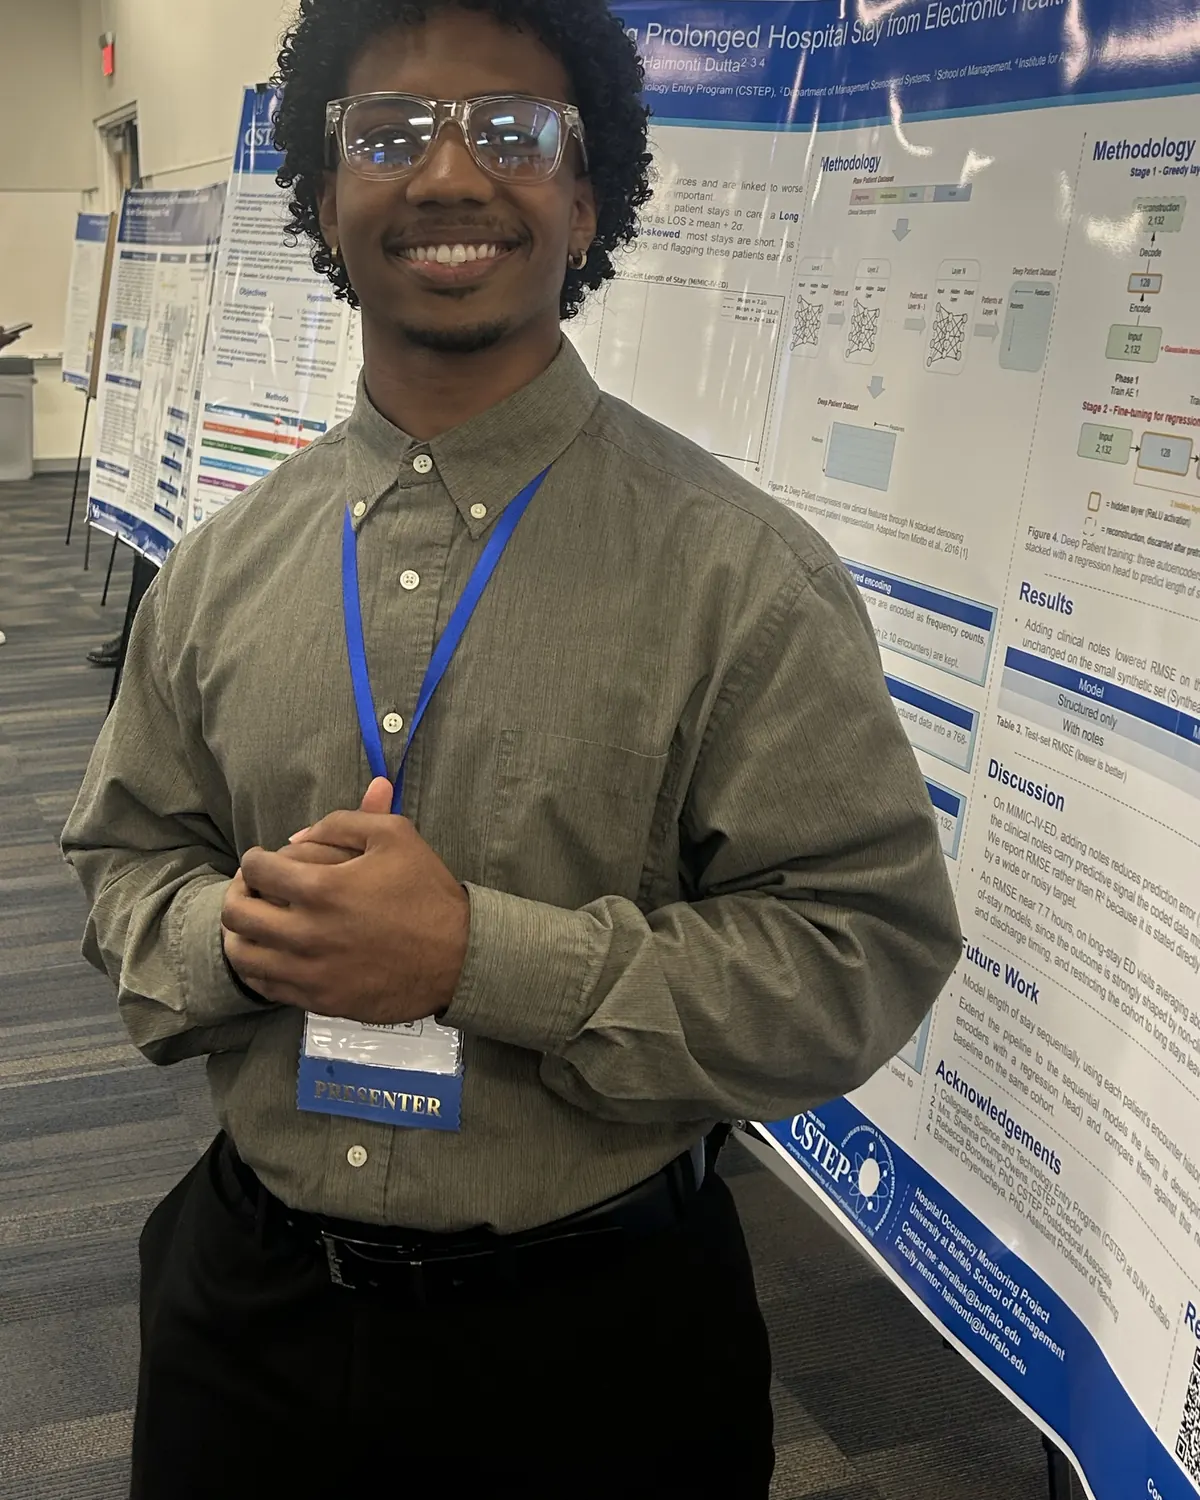
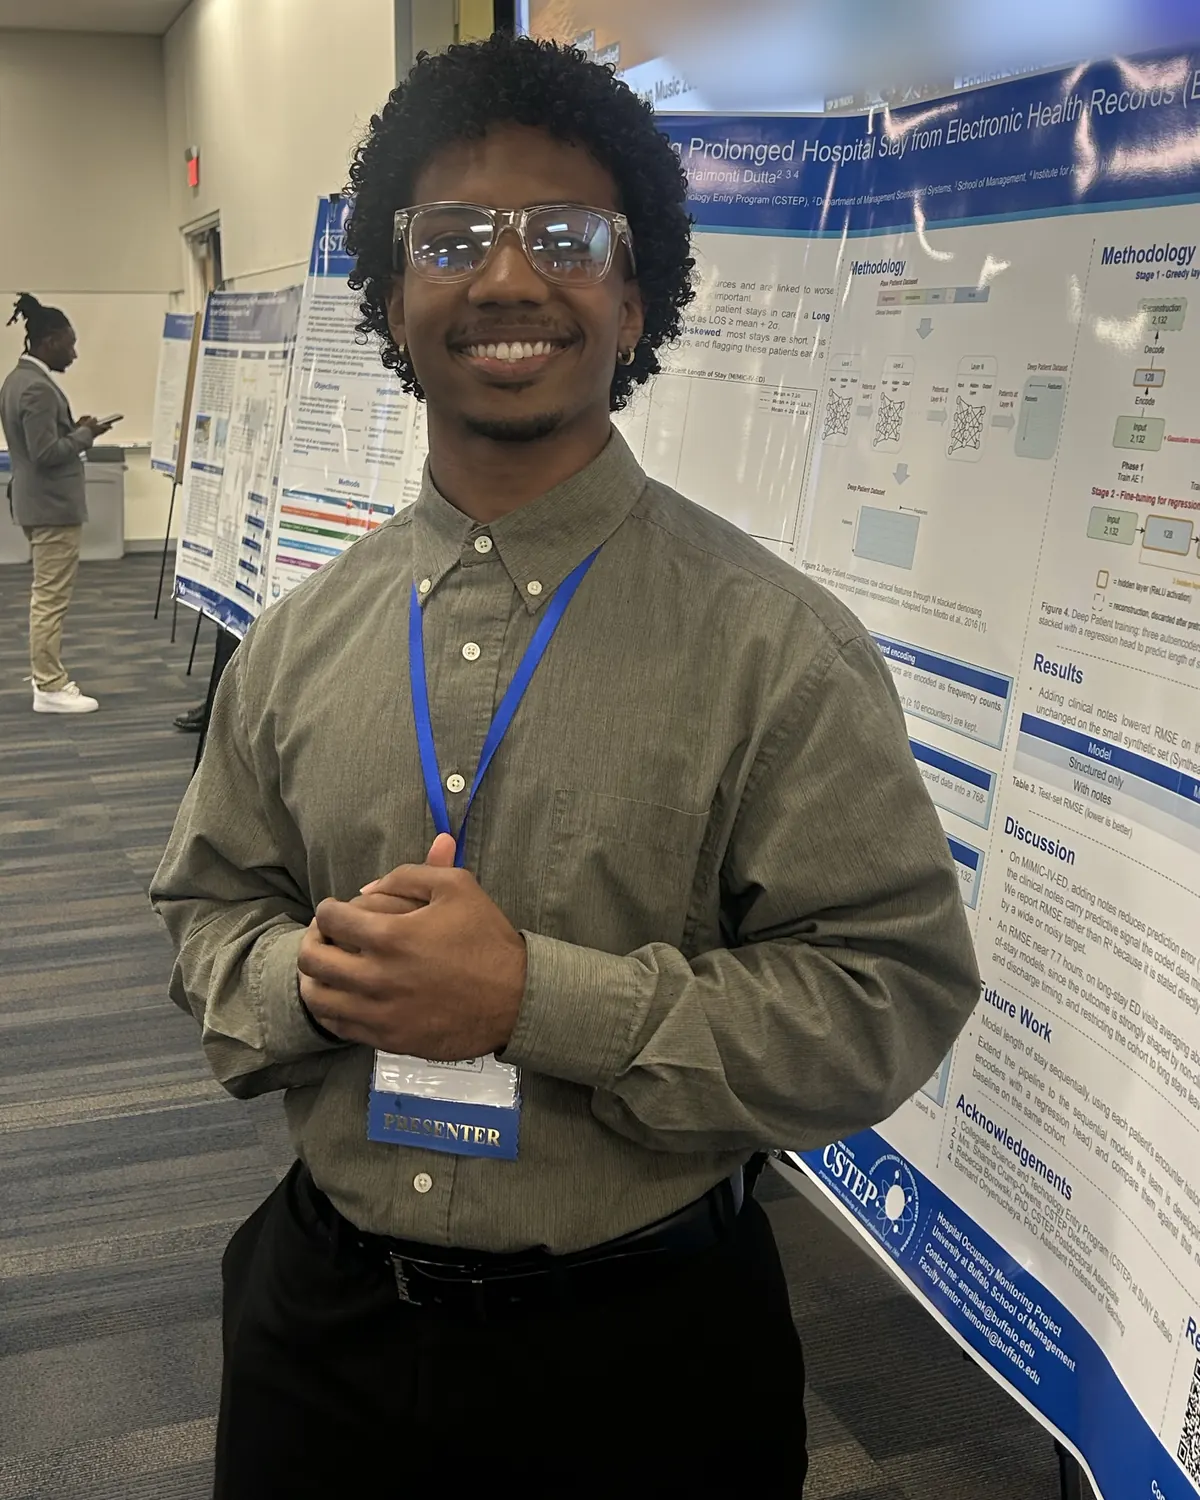
Re-crop poster photo to keep full hair, blur the projector strip
Claude-Session: https://claude.ai/code/session_01PS7nDS51rvwgcAWNzzRdaV

diff --git a/tools/optimize_images.py b/tools/optimize_images.py
@@ -9,7 +9,7 @@ copy it unless asked to.
 """
 from pathlib import Path
 
-from PIL import Image, ImageOps
+from PIL import Image, ImageDraw, ImageFilter, ImageOps
 
 Image.MAX_IMAGE_PIXELS = None  # the suit headshot is ~100 MP
 
@@ -68,8 +68,18 @@ crop_ratio(suit, 1, cy=0.3).resize((180, 180), Image.LANCZOS).save(
     ROOT / "apple-touch-icon.png", "PNG", optimize=True)
 print("apple-touch-icon.png  180x180")
 
-# Research: poster session, cropped so the projector screen is out of frame.
-poster = crop_frac(load(SRC / "poster.jpg"), 0, 0.23, 1, 1)
+# Research: poster session. Keep all the hair; the projector screen strip
+# to the right of the head is blurred so its thumbnails aren't readable.
+# Mask points are in the 1932x2576 frame and scale to any size of the photo.
+poster = load(SRC / "poster.jpg")
+pw, ph = poster.size
+mask = Image.new("L", poster.size, 0)
+pts = [(1030, 0), (1932, 0), (1932, 494), (1340, 578), (1236, 588),
+       (1203, 552), (1163, 513), (1118, 468), (1030, 458)]
+ImageDraw.Draw(mask).polygon([(x / 1932 * pw, y / 2576 * ph) for x, y in pts], fill=255)
+mask = mask.filter(ImageFilter.GaussianBlur(0.004 * pw))
+poster = Image.composite(poster.filter(ImageFilter.GaussianBlur(0.02 * pw)), poster, mask)
+poster = crop_frac(poster, 0, 0.165, 1, 1)
 save_widths(crop_ratio(poster, 4 / 5, cx=0.6, cy=0), "poster", [480, 800, 1200])
 
 # Experience: the one real work image, 16:10.
